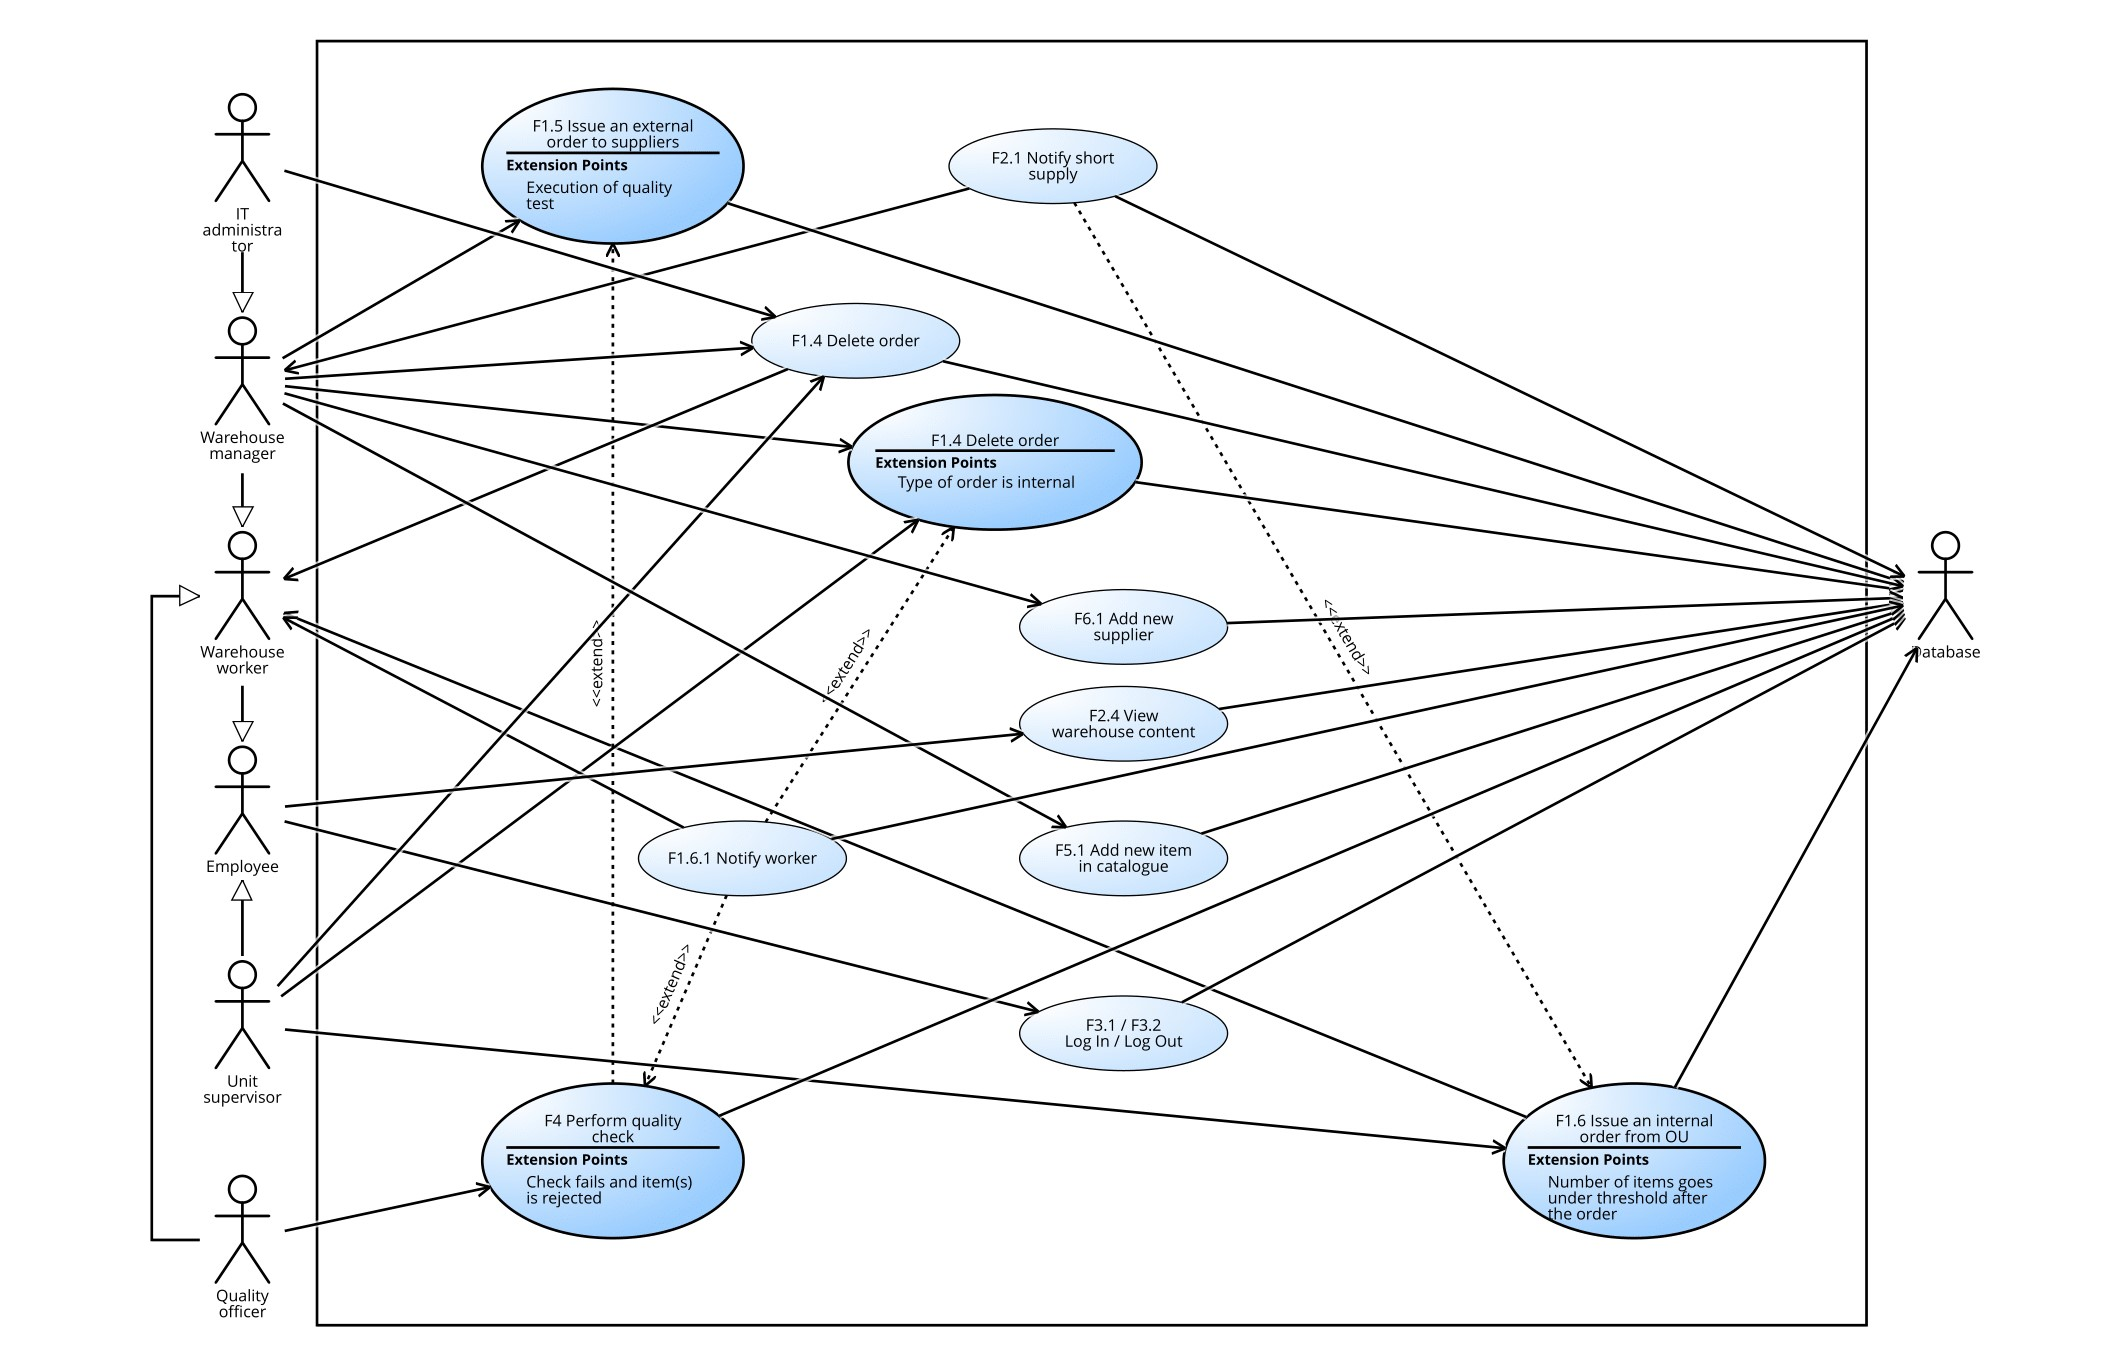
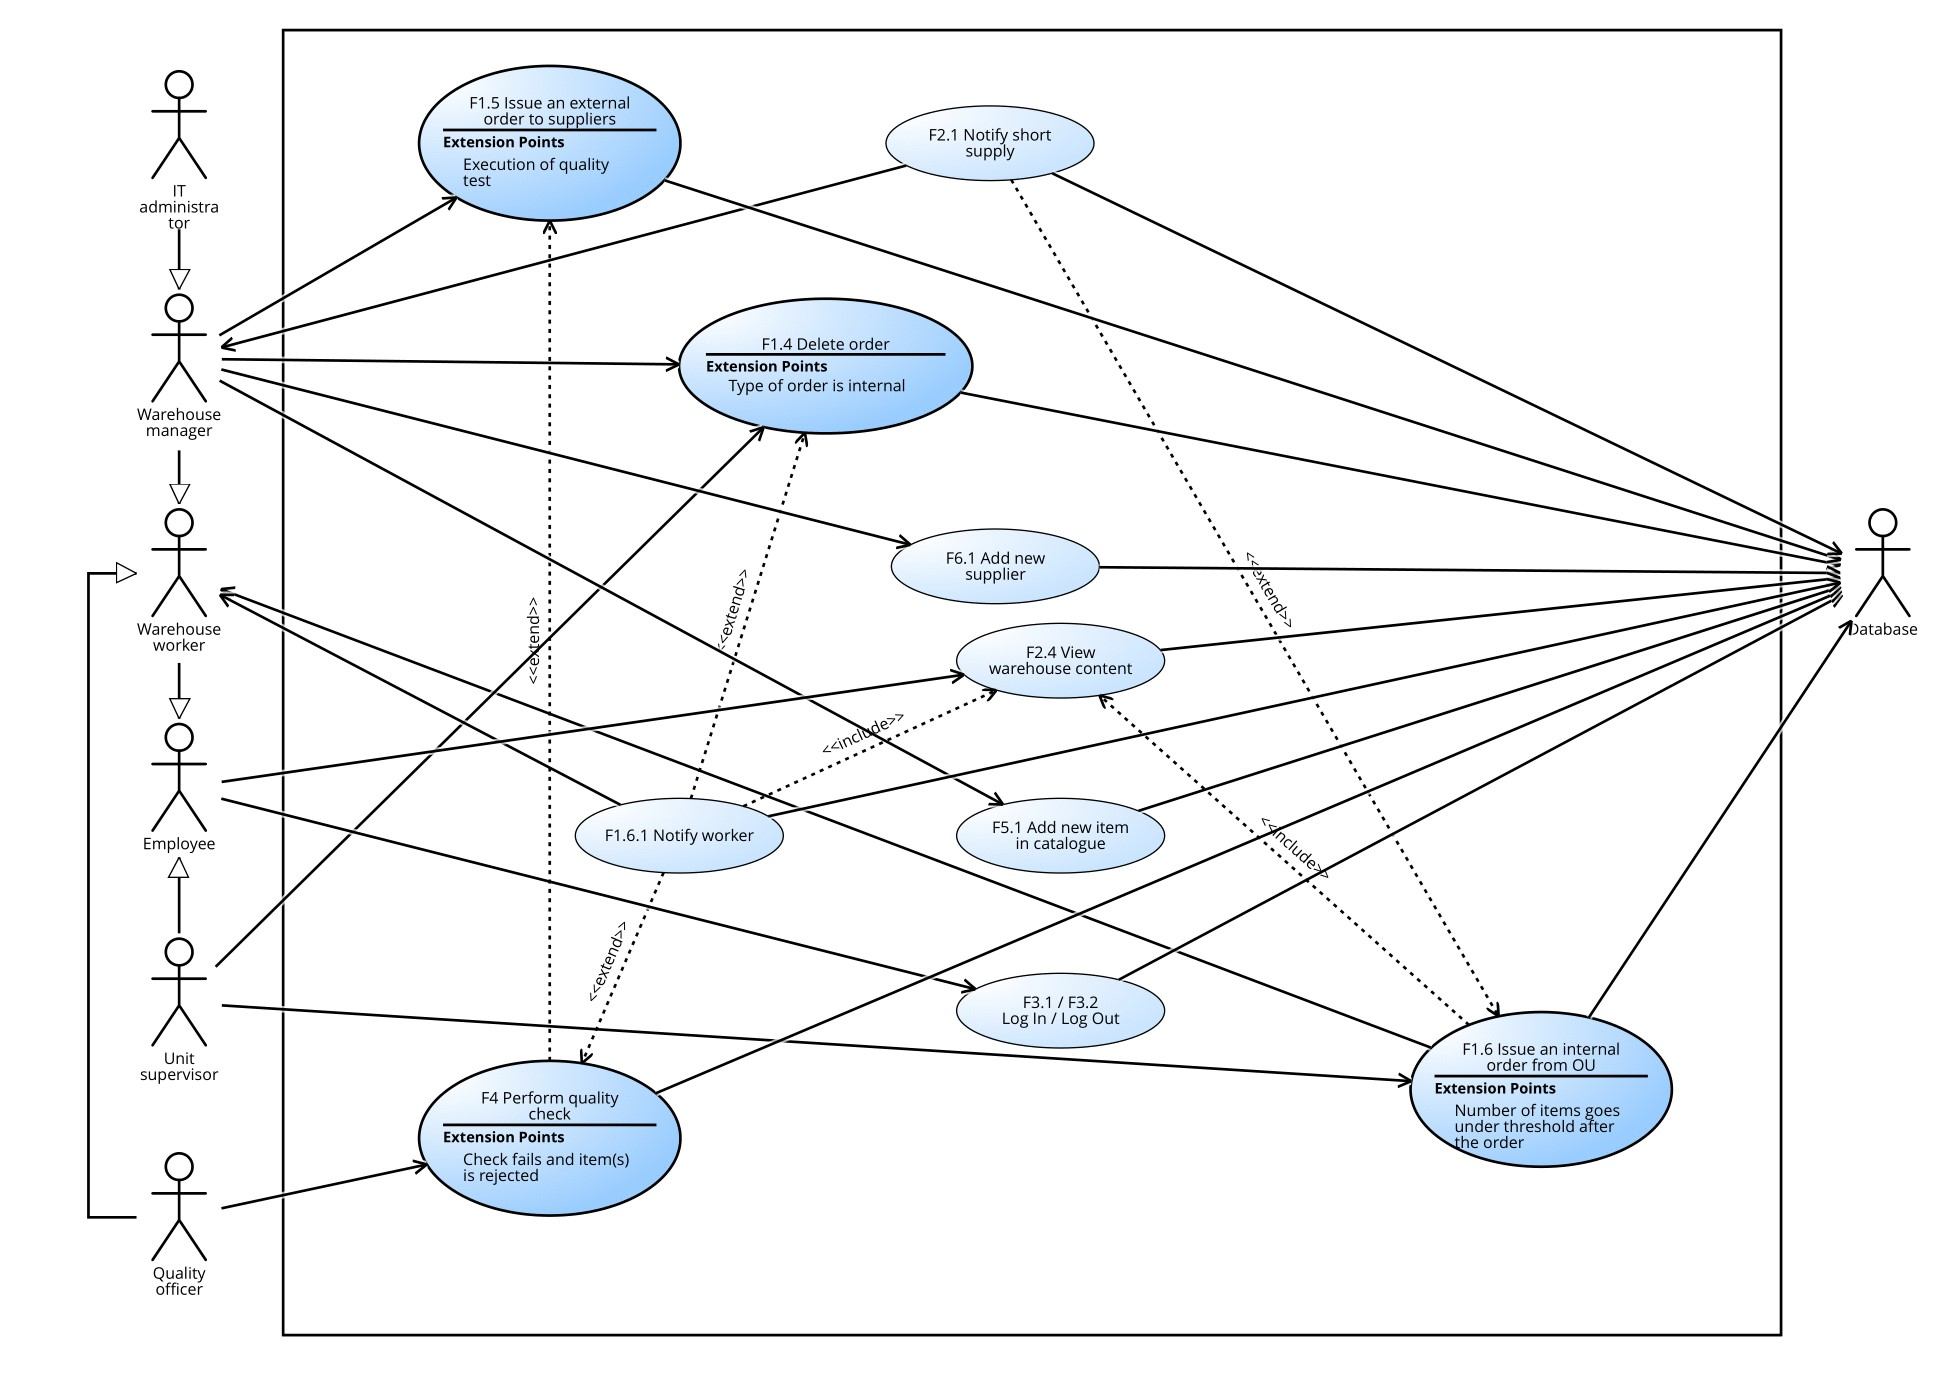
Fix use case diagram

diff --git a/RequirementsDocument.md b/RequirementsDocument.md
@@ -1,9 +1,9 @@
 
 # Requirements Document 
 
-Date: 10 April 2022
+Date: 12 April 2022
 
-Version: 1.5
+Version: 1.6
 
  
 | Version number | Change |
@@ -14,6 +14,7 @@ Version: 1.5
 | 1.3 | Modified stories to make them compliant with the application functionalities |
 | 1.4 | Removed a "design" class from Glossary |
 | 1.5 | Explicited a generalization in Context diagram |
+| 1.6 | Fixed Use case diagram |
 
 
 # Contents
